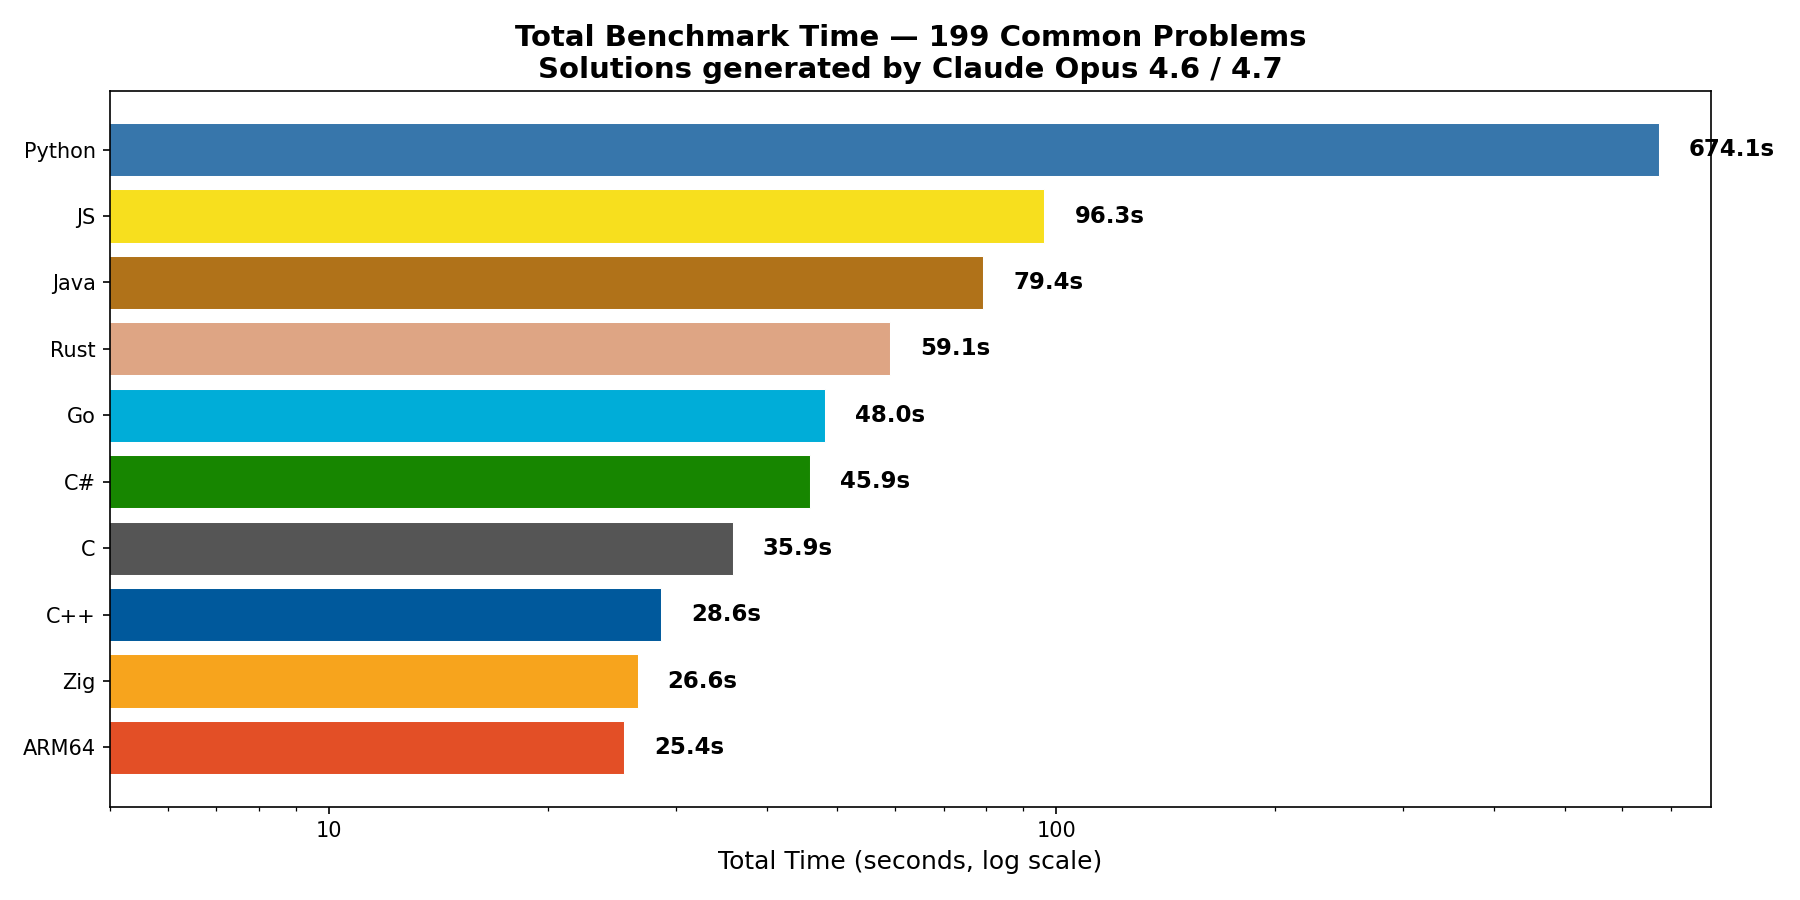
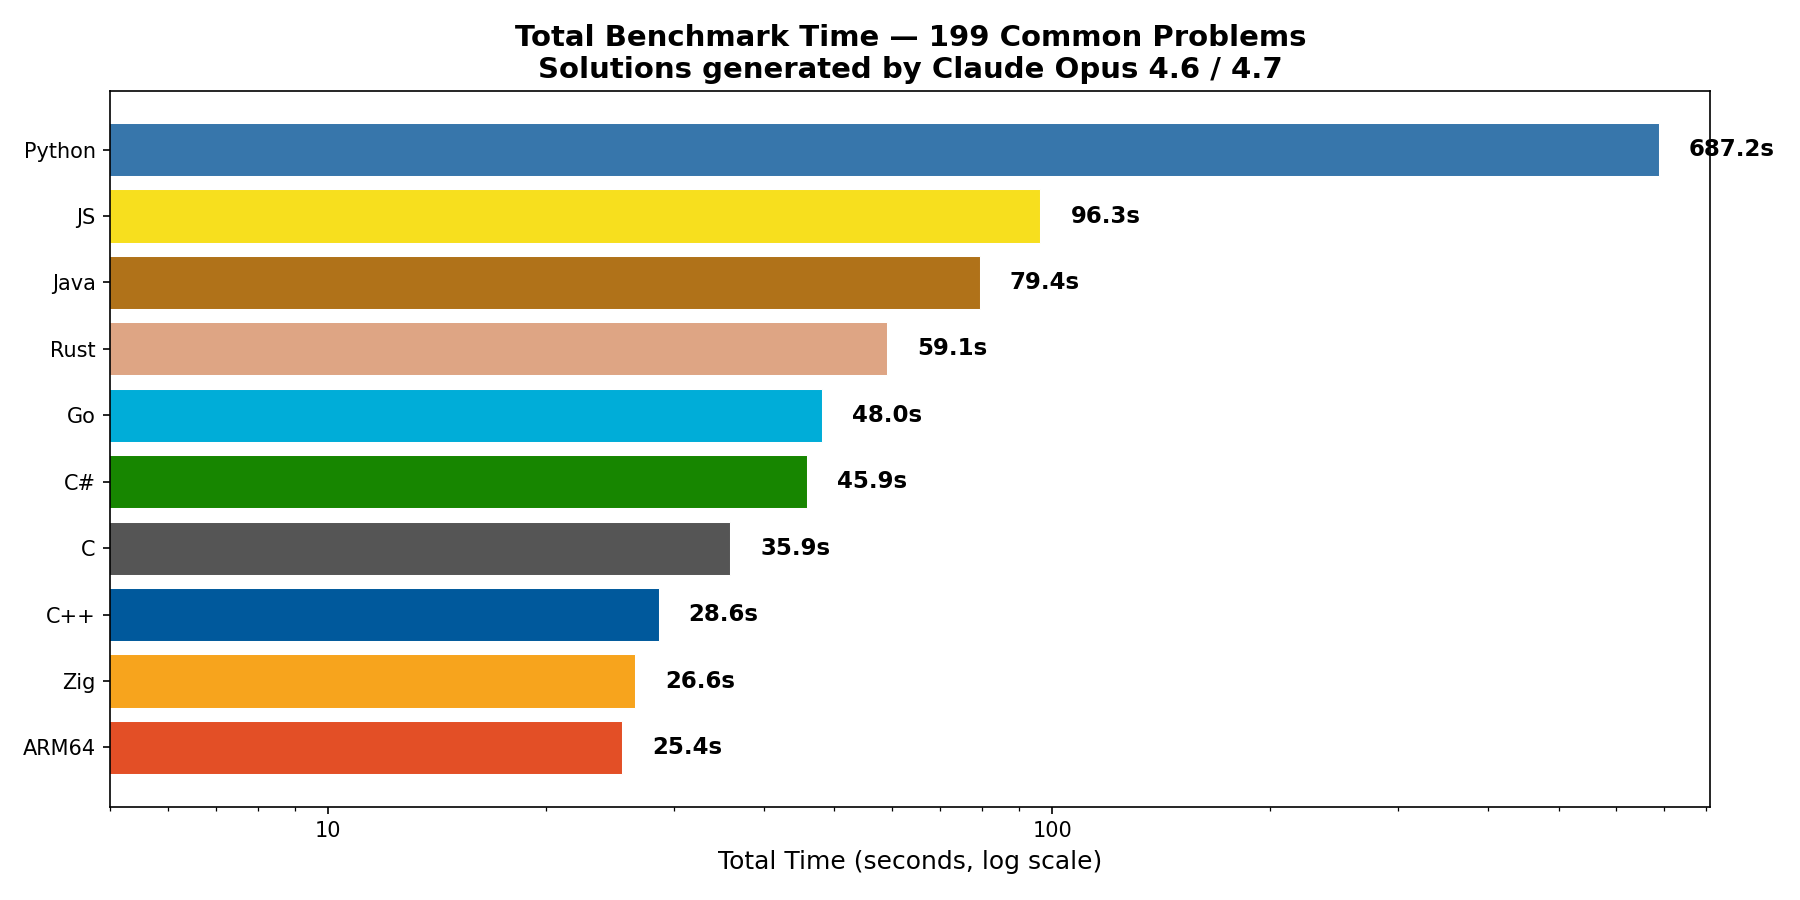
refresh python p177

diff --git a/THREE_MODE_REPORT.md b/THREE_MODE_REPORT.md
@@ -18,7 +18,7 @@ Reading the columns:
 | C# | 219 | 48.69 s | 67.05 s | 75.97 s |
 | Java | 219 | 48.35 s | 267.03 s | 435.89 s |
 | JS | 218 | 103.25 s | 192.45 s | 192.45 s |
-| Python | 424 | 1247.46 s | 1887.64 s | 1887.64 s |
+| Python | 425 | 1260.32 s | 1900.81 s | 1900.81 s |
 
 ## Comptime / constant-fold detection
 
@@ -215,7 +215,7 @@ Each cell: `runtime / compile`. Sorted by problem number.
 | 174 | 166.2 µs / 603.0 ms | 161.0 µs / 384.8 ms | 6.30 s / 1.41 s | 806.7 µs / 1.68 s | 2.4 ms / 0 ns | 771.2 µs / 0 ns | 535.6 µs / 970.4 ms | 1.2 ms / 0 ns | 28.3 ms / 0 ns |
 | 175 | 42 ns / 147.1 ms | 0 ns / 376.4 ms | 42 ns / 749.6 ms | 84 ns / 2.05 s | 0 ns / 139.9 ms | 458 ns / 0 ns | 1.2 µs / 1.02 s | 542 ns / 0 ns | 333 ns / 0 ns |
 | 176 | 8.8 µs / 682.2 ms | 71.0 µs / 464.2 ms | 8.0 µs / 1.03 s | 42 ns / 2.72 s | 262.0 µs / 0 ns | 40.2 µs / 0 ns | 30.9 µs / 1.33 s | 84 ns / 0 ns | 368.6 µs / 0 ns |
-| 177 | 5.97 s / 639.9 ms | 4.72 s / 448.8 ms | 10.14 s / 164.1 ms | 0 ns / 2.73 s | 6.46 s / 0 ns | 0 ns / 0 ns | 0 ns / 874.4 ms | 208 ns / 0 ns | — |
+| 177 | 5.97 s / 639.9 ms | 4.72 s / 448.8 ms | 10.14 s / 164.1 ms | 0 ns / 2.73 s | 6.46 s / 0 ns | 0 ns / 0 ns | 0 ns / 874.4 ms | 208 ns / 0 ns | 12.86 s / 0 ns |
 | 178 | 437.0 µs / 395.9 ms | 0 ns / 380.6 ms | 441.8 µs / 570.1 ms | 399.9 µs / 901.8 ms | 324.0 µs / 0 ns | 465.9 µs / 0 ns | 287.3 µs / 824.3 ms | 465.6 µs / 0 ns | 11.4 ms / 0 ns |
 | 179 | 1.1 ms / 354.0 ms | 271.9 ms / 428.0 ms | 264.4 ms / 714.0 ms | 5.5 ms / 1.80 s | 0 ns / 184.2 ms | 12.9 ms / 0 ns | 9.0 ms / 804.1 ms | 16.8 ms / 0 ns | 83 ns / 0 ns |
 | 180 | 19.8 ms / 200.4 ms | 20.2 ms / 505.6 ms | 14.3 ms / 80.6 ms | 41 ns / 311.9 ms | 0 ns / 143.0 ms | 15.3 ms / 1.04 s | 27.5 ms / 433.1 ms | 72.7 ms / 0 ns | 133.1 ms / 0 ns |

diff --git a/RESULTS.md b/RESULTS.md
@@ -16,7 +16,7 @@
 | 7 | **Rust** | 59.12s | 1.65x | 55 | 25 |
 | 8 | **Java** | 79.38s | 2.21x | 51 | 2 |
 | 9 | **JS** | 96.27s | 2.68x | 44 | 7 |
-| 10 | **Python** | 674.08s | 18.78x | 41 | 0 |
+| 10 | **Python** | 687.25s | 19.14x | 42 | 0 |
 
 *199 common problems, excluding 8 parked (algorithm redesign needed)*
 
@@ -59,7 +59,7 @@
 - **Languages:** C, C++, Rust, Go, Java, C#, JavaScript, Python, ARM64 Assembly
 - **Problems:** 200 (Project Euler #1-200)
 - **Total solutions:** 2855
-- **Pass rate:** 2839/2855 (99.4%)
+- **Pass rate:** 2840/2855 (99.5%)
 - **Parked (algorithm redesign):** 8 problems across all languages
 - **Generated by:** Claude Opus 4.6 (design + algorithms) and Sonnet 4.6 (language ports); newer work on Opus 4.7
 - **Platform:** Apple Silicon, macOS, ARM64

diff --git a/COVERAGE.md b/COVERAGE.md
@@ -1,6 +1,6 @@
 # Project Euler — Coverage Dashboard
 
-_Generated: 2026-05-22 09:27_
+_Generated: 2026-05-22 09:29_
 
 Legend: 🟩 done · 🟨 parked / known issue · 🟥 missing · ⬛ out of scope
 
